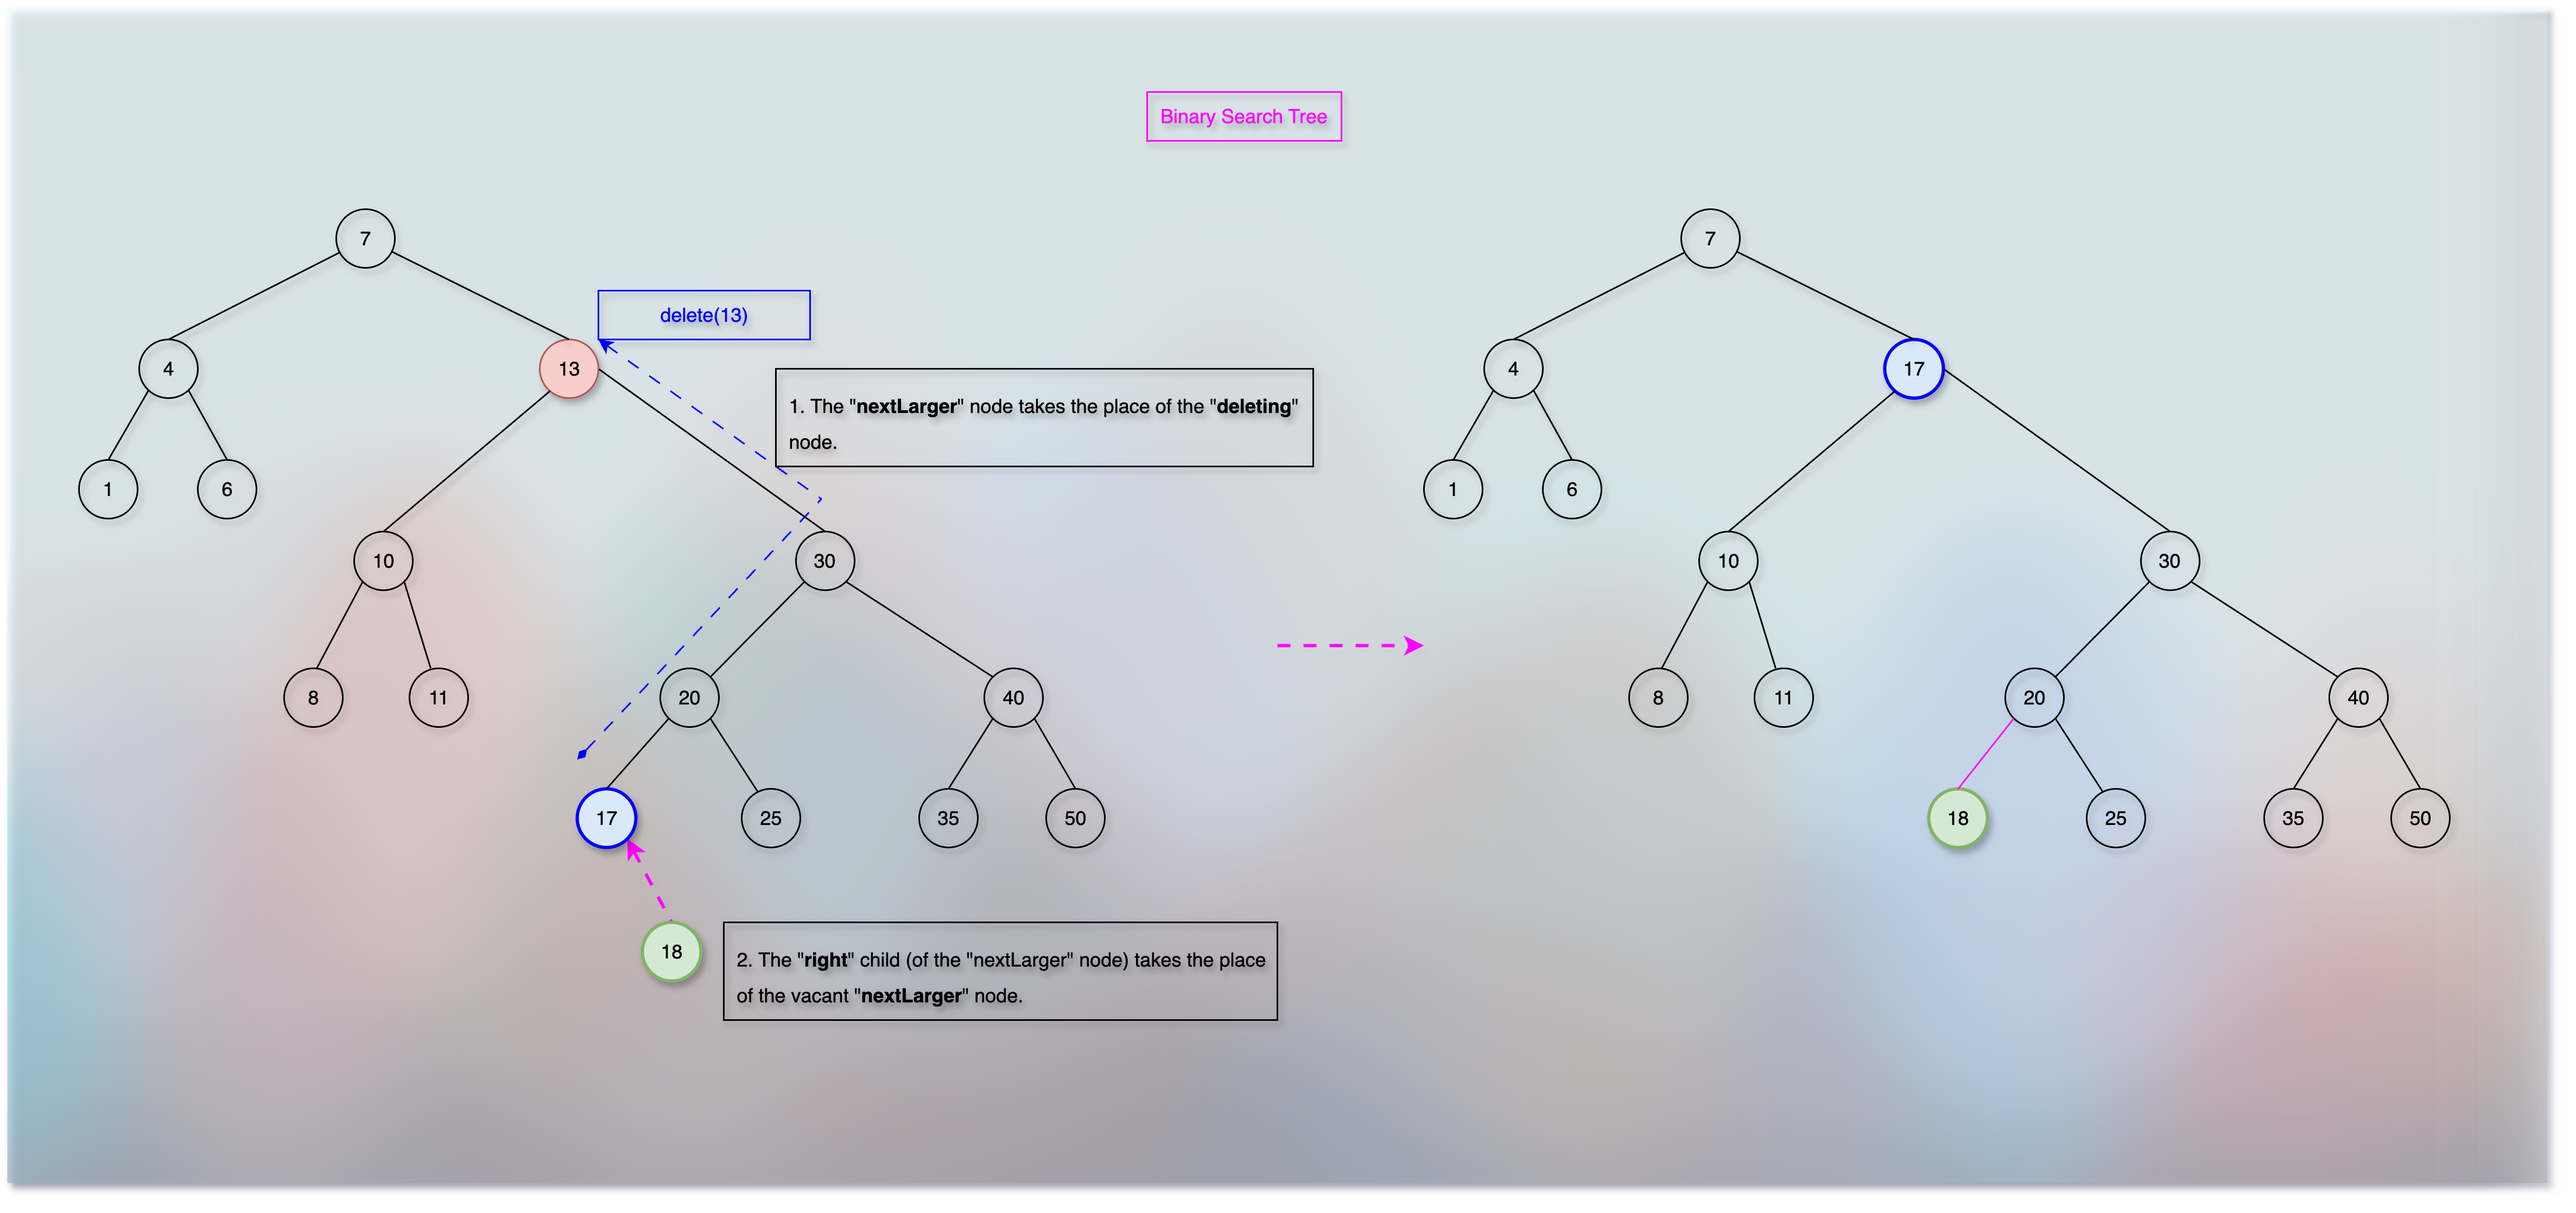
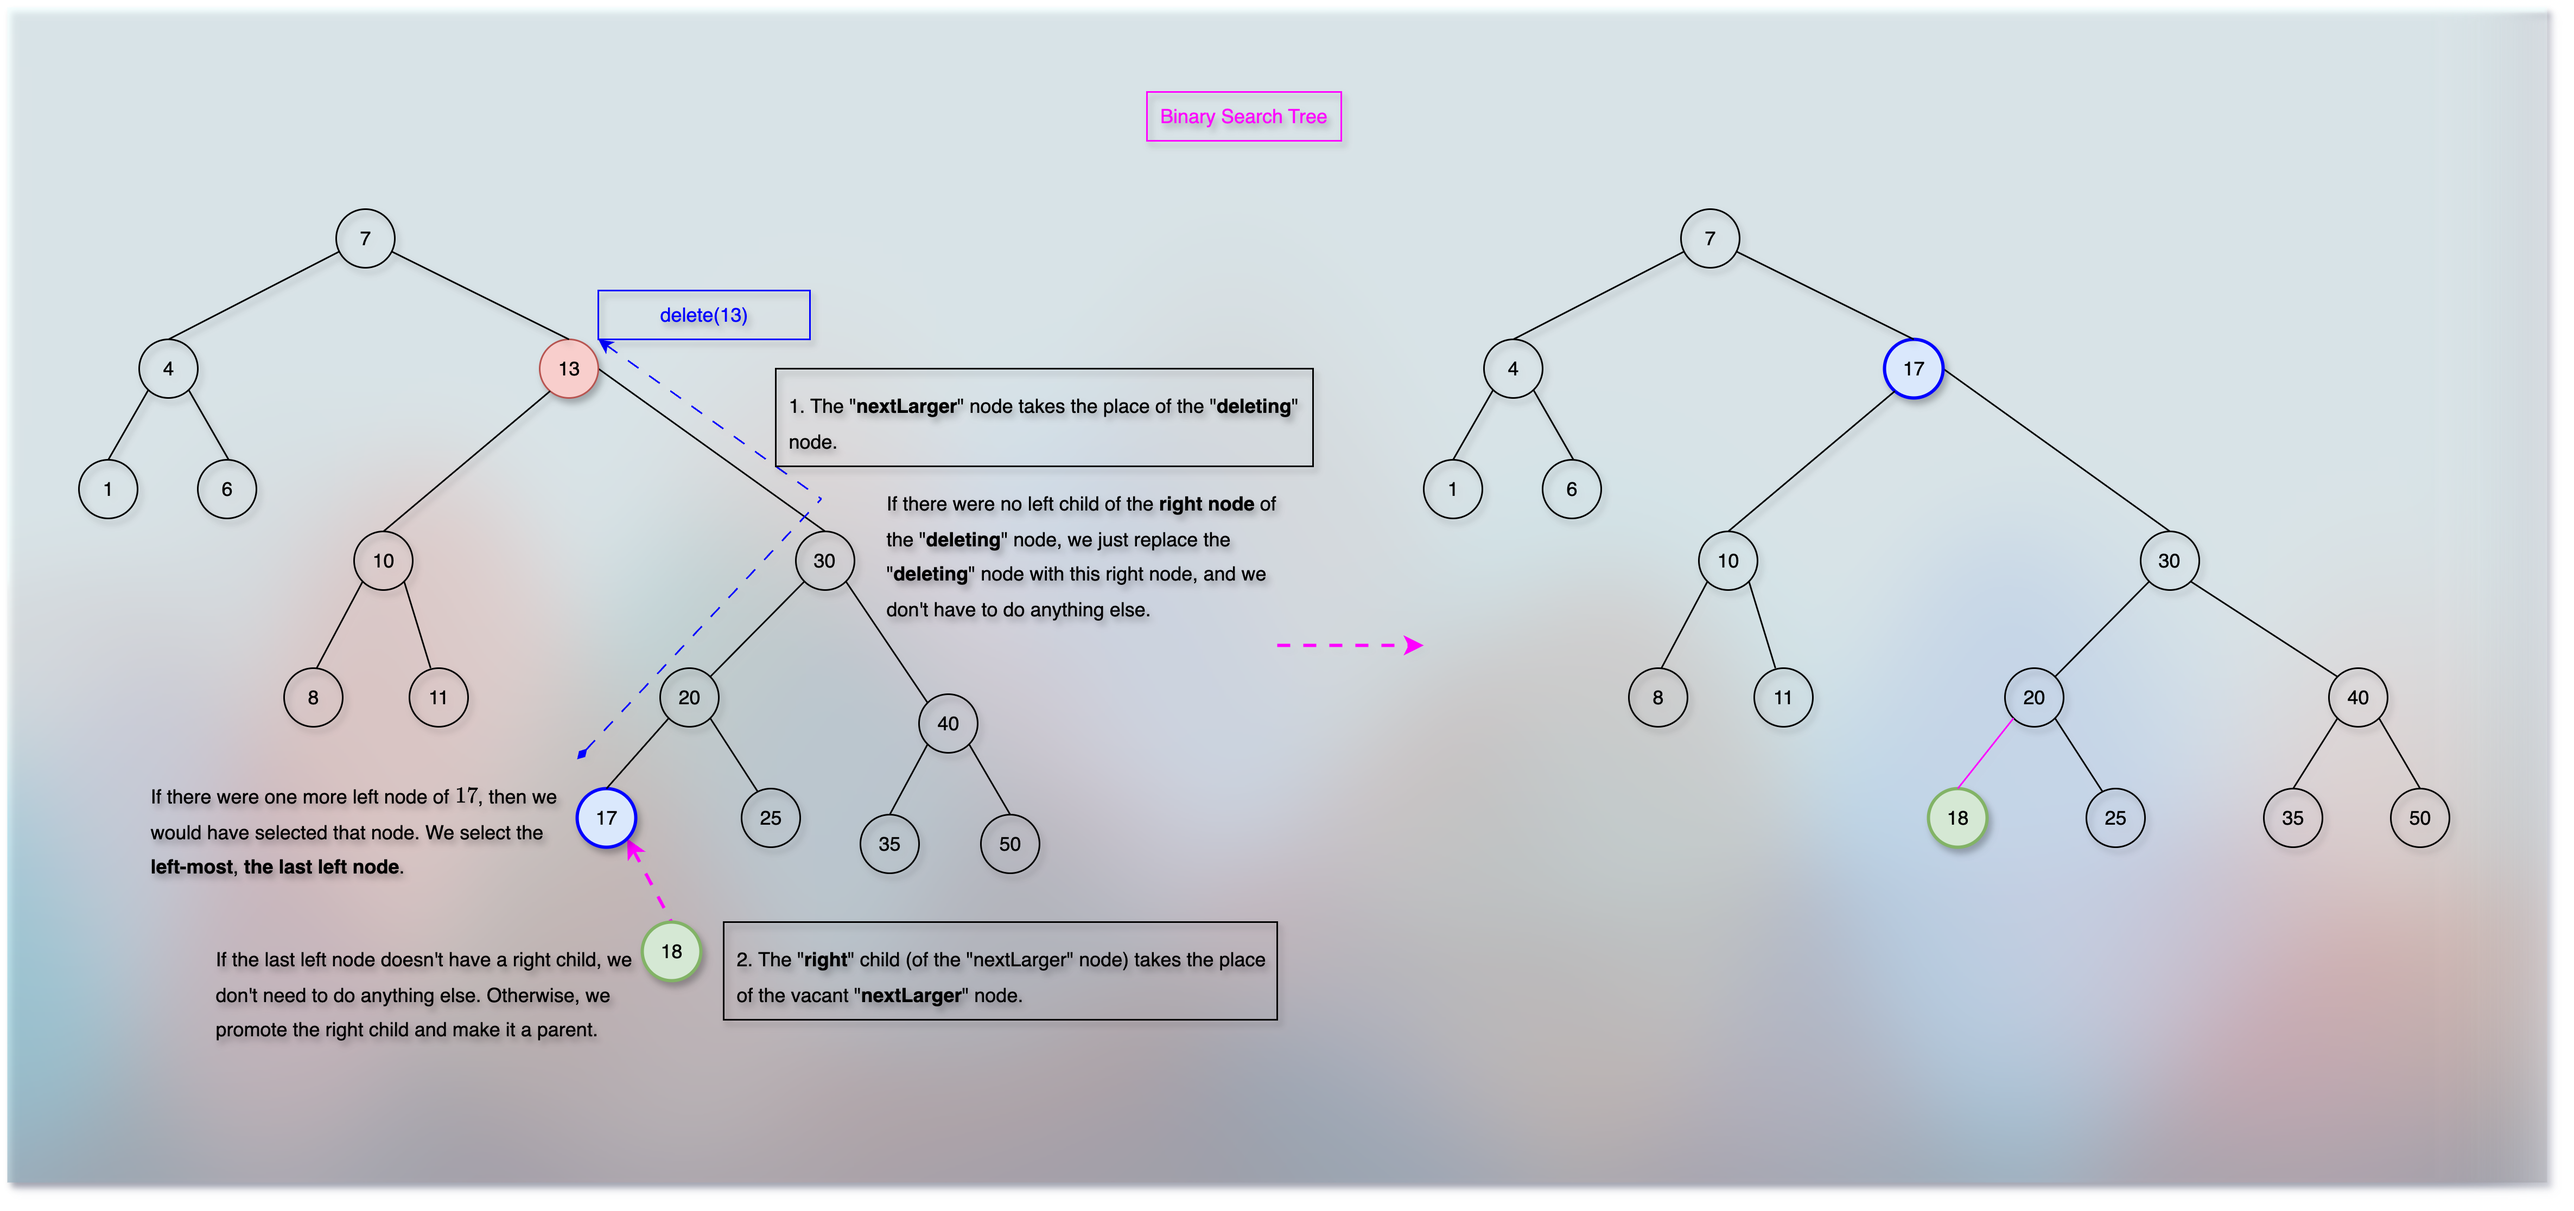
docs(WIP): enhance delete operation explanation and pseudocode in BST documentation | 10binarySearchTreesBSTsBasicOperations.md | A part of the data structures. Reference: Coursera: UC San Diego:  Data Structures: Module 05: Binary Search Trees
Took 2 hours 0 minutes

diff --git a/docs/dataStructures/courses/uc/module05binarySearchTrees/10binarySearchTreesBSTsBasicOperations.md b/docs/dataStructures/courses/uc/module05binarySearchTrees/10binarySearchTreesBSTsBasicOperations.md
@@ -428,15 +428,134 @@ fun insert(key: Int, rootNode: Node?) {
 
 ## Delete
 
+* While performing the `delete` operation, we need to ensure and keep the tree a valid BST.
+* We can keep the tree a valid binary search tree by taking care of (by handling):
+  * Parent
+  * Left Subtree
+  * Right Subtree
+* Suppose the node we want to delete is `nodeToDelete`.
+* Now, when we delete a node, what gets affected?
+  * The parent of the `nodeToDelete`
+  * The left subtree of the `nodeToDelete`
+  * And the right subtree of the `nodeToDelete`
+* So, we need to handle those `3` pointers, along with the edge cases.
+* What are the edge cases?
+  * Maybe, the `nodeToDelete` is `null`. 
+  * Maybe, the `nodeToDelete` is the `rootNode`!
+
+**How do we manage the pointers?**
+
+```kotlin
+
+// The `nodeToDelete` is `null`.
+if (nodeToDelete == null) {
+    return
+}
+
+// The `nodeToDelete` is the `rootNode`.
+if (nodeToDelete.parent == null) {
+    rootNode = null
+}
+
+```
+
+**Case: 01: `nodeToDelete` does not have any children** 
+
+![80bstDelete01.png](../../../../../assets/images/dataStructures/uc/module05binarySearchTreesBST/80bstDelete01.png)
+
+* In this case, we just disconnect `nodeToDelete` and its parent.
+* So, it becomes:
+
+```kotlin
+
+// If `nodeToDelete` does not have any children
+if (nodeToDelete.left == null && nodeToDelete.right == null) {
+    // If `nodeToDelete` is a left child 
+    if (nodeToDelete == nodeToDelete.parent.left) {
+        nodeToDelete.parent.left = null
+    } else {
+        nodeToDelete.parent.right = null
+    }
+}
+
+```
+
+**Case: 02: `nodeToDelete` has a single child**
+
+![80bstDelete02.png](../../../../../assets/images/dataStructures/uc/module05binarySearchTreesBST/80bstDelete02.png)
+
+* In this case, the child of `nodeToDelete` takes the place of `nodeToDelete`.
+* Now, either the `nodeToDelete` is a left-child or a right-child of the parent.
+* Also, either the `nodeToDelete` has a left-child or a right-child.
+* So, the pseudocode becomes:
+
+```kotlin
+
+// If `nodeToDelete` is a left child of the parent
+if (nodeToDelete == nodeToDelete.parent.left) {
+    // If `nodeToDelete` has only a right child
+    if (nodeToDelete.left == null && nodeToDelete.right != null) {
+        // The parent of `nodeToDelete` points to the child of `nodeToDelete`
+        nodeToDelete.parent.left = nodeToDelete.right
+        // Needs to change the parent of `nodeToDelete.right`
+        nodeToDelete.right.parent = nodeToDelete.parent 
+        // If `nodeToDelete` has only a left child
+    } else if (nodeToDelete.right == null && nodeToDelete.left != null) {
+        // The parent of `nodeToDelete` points to the child of `nodeToDelete`
+        nodeToDelete.parent.left = nodeToDelete.left
+        // Needs to change the parent of the `nodeToDelete.left`
+        nodeToDelete.left.parent = nodeToDelete.parent
+    }
+    // If `nodeToDelete` is a right child of the parent
+} else if (nodeToDelete == nodeToDelete.parent.right) {
+    // If `nodeToDelete` has only a right child
+    if (nodeToDelete.left == null && nodeToDelete.right != null) {
+        // The parent of `nodeToDelete` points to the child of `nodeToDelete`
+        nodeToDelete.parent.right = nodeToDelete.right
+        // Needs to change the parent of the `nodeToDelete.right`
+        nodeToDelete.right = nodeToDelete.parent
+        // If `nodeToDelete` has only a left child
+    } else if (nodeToDelete.right == null && nodeToDelete.left != null) {
+        // The parent of `nodeToDelete` points to the child of `nodeToDelete`
+        nodeToDelete.parent.right = nodeToDelete.left
+        // Needs to change the parent of the `nodeToDelete.left`
+        nodeToDelete.left.parent = nodeToDelete.parent
+    }
+}
+```
+* In two sentences, when `nodeToDelete` has only one child, the `parent` of `nodeToDelete` points to the `child` of the `nodeToDelete`.
+* And the child of `nodeToDelete` points to the `nodeToDelete.parent`.
+* And in one sentence, the `nodeToDelete` is replaced by its child.
+* So, let us assume the replacement code where we get two parameters: `nodeToDelete`, and `childOfNodeToDelete`.
+* So, the pseudocode might look like follow:
+
+```kotlin
+
+fun replaceNode(nodeToDelete: Node?, childOfNodeToDelete: Node?) {
+    if (nodeToDelete == null) return
+    if (nodeToDelete == rootNode) {
+        rootNode = childOfNodeToDelete
+        childOfNodeToDelete?.parent = null
+        return
+    }
+    val parent = nodeToDelete?.parent
+    if (nodeToDelete == parent?.left) {
+        parent?.left = childOfNodeToDelete
+    } else {
+        parent?.right = childOfNodeToDelete
+    }
+    childOfNodeToDelete?.parent = parent
+}
+```
+
+**Case: 03: `nodeToDelete` has two children**
+
 ![80bstDelete.png](../../../../../assets/images/dataStructures/uc/module05binarySearchTreesBST/80bstDelete.png)
 
 * Suppose, we want to delete `13`.
-* Then, we would first replace `13` with its `nextLarger` node.
-* And then, the next larger node takes the place of `13`.
+* Then, we would first replace `13` with its `nextLarger` node. (`nodeToDelete = nextLargerNode`)
 * And if the next larger node has any right child, then it will take the vacant place of its parent - as its parent has moved to take place of `13`.
-* ToDo: 
-* What if the node we want to delete does not have any right child? 
-
+* So, the pseudocode might look like follow:
 
 ```kotlin
 
@@ -444,7 +563,52 @@ fun delete(node: Node) {
     val deletingNode = find(node, rootNode)
     val nextLargerNode = nextLarger(node)
     val rightChild = nextLargerNode.right
+    deletingNode = nextLargerNode 
+    replace(nextLargerNode, nextLargerNode.right)
+}
+```
+
+**The complete delete pseudocode**
+
+```kotlin
+
+fun delete(nodeToDelete: Node?) {
+    if (nodeToDelete == null) return
+    fun replace(nodeToDelete: Node?, childOfDeletingNode: Node?) {
+        if (nodeToDelete == null) return
+        // `nodeToDelete` is a `rootNode`
+        if (nodeToDelete?.parent == null) {
+            rootNode = childOfDeletingNode
+            nodeToDelete = null
+            return
+        }
+        val parent = nodeToDelete?.parent
+        if (nodeToDelete == parent?.left) {
+            parent?.left = childOfDeletingNode
+        } else {
+            parent?.right = childOfDeletingNode
+        }
+        childOfDeletingNode?.parent = parent
+        nodeToDelete = null
+    }
     
+    val deletingNode = find(nodeToDelete)
+    
+    // `deletingNode` might have only right child
+    if (deletingNode?.left == null) {
+        replace(deletingNode, deletingNode.right)
+    } else if (deletingNode?.right == null) {
+        // `deletingNode` might have only left child
+        replace(deletingNode, deletingNode?.left)
+    } else {
+        // `deletingNode` has two children (left and right)
+        val nextLarger = nextLarger(deletingNode)
+        if (nextLarger != null) {
+            deletingNode.key = nextLarger.key
+            // By the definition of `nextLarger,` it cannot have the `left child`.
+            replace(nextLarger, nextLarger.right)
+        }
+    }
 }
 
 ```

diff --git a/docs/dataStructures/courses/uc/module01BasicDataStructures/section03trees/trees.md b/docs/dataStructures/courses/uc/module01BasicDataStructures/section03trees/trees.md
@@ -658,13 +658,13 @@ flowchart TD
 
 * `Root` comes inside the `Left` and the `Right` sides.
 * So, the order becomes: `Left-Root-Right`.
-* Hence, the `in-order` traversal for the given example will be as below:
+* Hence, the `in-order` traversal for the given example will be as follows:
 * We start with the root node, `A`. <------------------------------ 
 * Cover the left side of `A`. <------------------------------
-* The `in-order` sequence prioritizes the `Left` side first, before the `Root` part.
+* The `in-order` sequence prioritises the `Left` side first, before the `Root` part.
 * So, we continue the depth traversal towards the left side of `A`.
 * The root node `A` has two children. `B` and `C`.
-* The `in-order` sequence prioritizes the `left` part first.
+* The `in-order` sequence prioritises the `left` part first.
 * So, we traverse through the left side, `B`.
 * We get `B`.
 * Cover the left side of `B`. <------------------------------ 
@@ -680,8 +680,8 @@ flowchart TD
 * So, it becomes: `B -- D`. ------------------------------------------------------------------------------(2).
 * Cover the right side of `D`. <------------------------------ 
 * But, it does not have a right side.
-* Then, as the `Right` side of `B` is finished, we can move backward.
-* The subtree `B` is covered. So, we move backward (upward).
+* Then, as the `Right` side of `B` is finished, we can move backwards.
+* The subtree `B` is covered. So, we move backwards (upward).
 * The subtree `B` was the `Left` side of the `Root` node, `A`. <------------------------------
 * It means we have finished the `Left` part of the `Left-Root-Right` for the `Root` node, `A`.
 * So, now comes the turn of the `Root` node, `A`. <------------------------------
@@ -699,13 +699,13 @@ flowchart TD
 * So, cover the root, `G`. (It is a root of a subtree that starts with itself.) <------------------------------
 * Hence, it becomes: `B -- D -- A -- G`. --------------------------------------------------------------------(4).
 * Cover the right side of `G`. <------------------------------
-* `G` does not have any children. So, we move backward (upward).
+* `G` does not have any children. So, we move backwards (upward).
 * We get `E`. Can we take it? Yes. Why? Because we have already covered its left side.
 * Cover the root, `E`. (It is a root of a subtree that starts with itself.) <------------------------------
 * So, now it becomes: `B -- D -- A -- G -- E`. --------------------------------------------------------------(5).
 * Cover the right side of `E`. <------------------------------
 * Does `E` have the right side? No.
-* So, we move backward (upward).
+* So, we move backwards (upward).
 * We get `C`. Should we take it? Yes. Why? Because we have already covered the left side of `C`.
 * Now, cover the root, `C`. (It is a root of a subtree that starts with itself.) <------------------------------
 * So, it becomes: `B -- D -- A -- G -- E -- C`. -------------------------------------------------------------(6).
@@ -718,7 +718,7 @@ flowchart TD
 * Cover the left side of `H`. <------------------------------
 * `H` does not have a left side. So, we can take it.
 * So, it becomes: `B -- D -- A -- G -- E -- C -- H`. --------------------------------------------------------(7).
-* What is next? Does `H` have a right side? No. So, we can move backward (upward).
+* What is next? Does `H` have a right side? No. So, we can move backwards (upward).
 * Cover the root of `H`. <------------------------------
 * We get `F`. Should we take it? Well, did we cover the left side of it? Yes. Then, we can take it.
 * Cover the root, `F`. (It is a root of a subtree that starts with itself.) <------------------------------
@@ -732,7 +732,7 @@ flowchart TD
 * So, it becomes: `B -- D -- A -- G -- E -- C -- H -- F -- I`. -----------------------------------------(9).
 * What is next? Did we cover the right of `I`? 
 * Cover the right side of `I`. <------------------------------ 
-* Well, it does not have any. So, we can move backward (upward).
+* Well, it does not have any. So, we can move backwards (upward).
 * We have already taken F, C, and A.
 * All the subtrees have been covered. The entire tree has been covered.
 * We travelled and covered one subtree after another.
